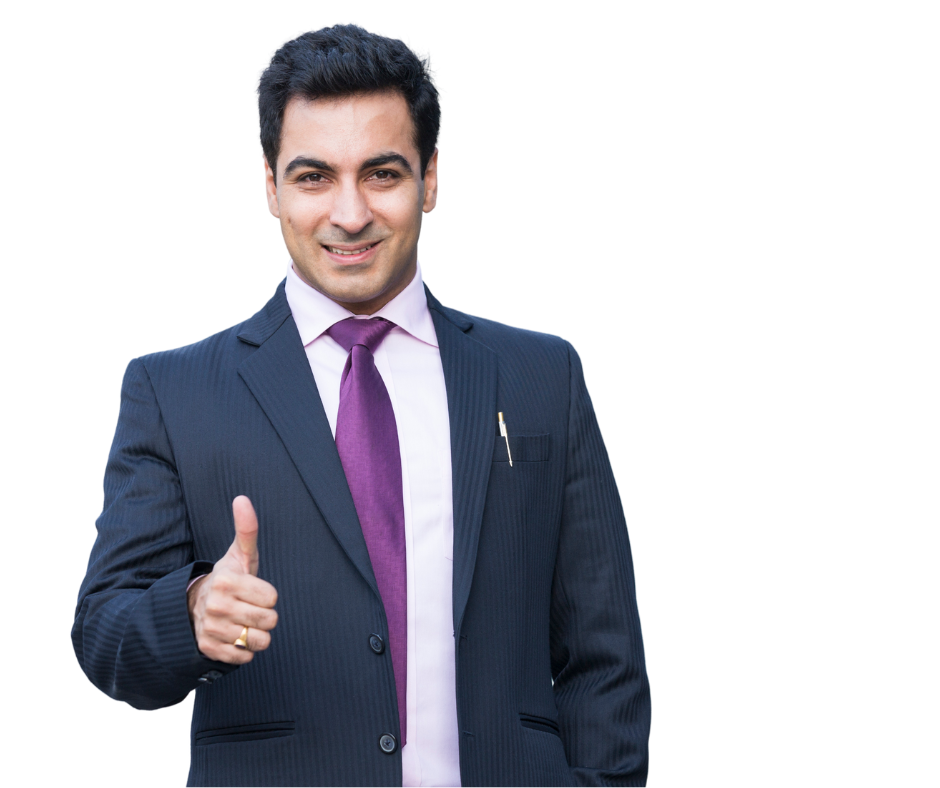
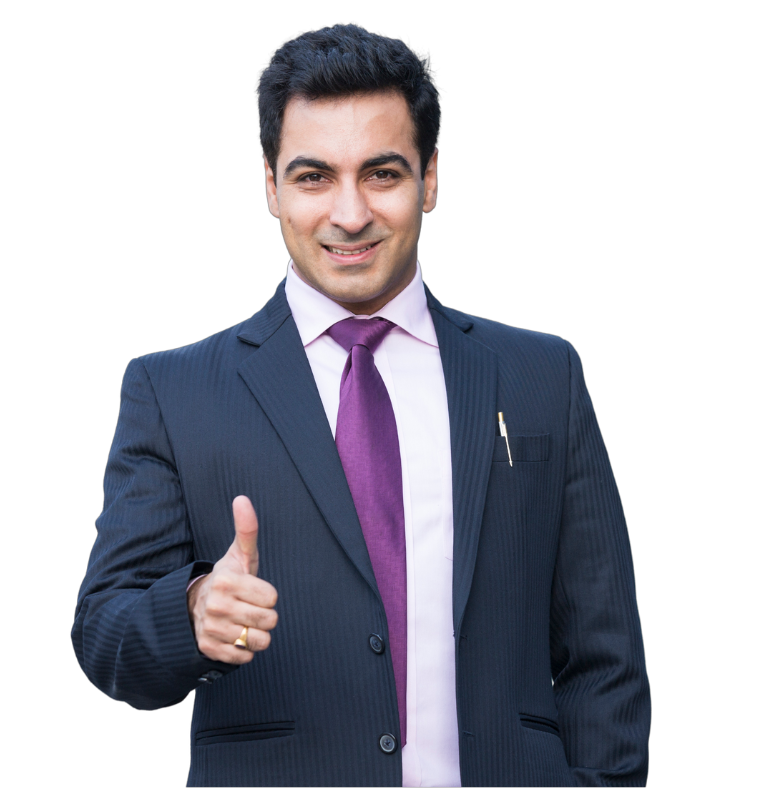
updated

diff --git a/accountant.html b/accountant.html
@@ -226,9 +226,7 @@
                     </div>
                 </div>
                 <div class="col-lg-6 col-md-12 col-sm-12 " style="text-align: center;">
-                    <img id="header_image1"
-                        src="https://toaglobal.com/wp-content/uploads/2021/07/Hero_accountant.png.webp"
-                        style="max-width:470px;width:100%">
+                    <img id="header_image1" src="images/accountHomepage.png" style="max-width:470px;width:100%">
                 </div>
             </div>
         </div>

diff --git a/index.html b/index.html
@@ -182,7 +182,7 @@
           </div>
         </div>
         <div class="col-lg-6 col-md-12 col-sm-12 " style="text-align:center;align-self: flex-end;">
-          <img id="header_image1" src="images/HomePage.png">
+          <img id="header_image1" src="images/homwpage1.png">
         </div>
       </div>
 
